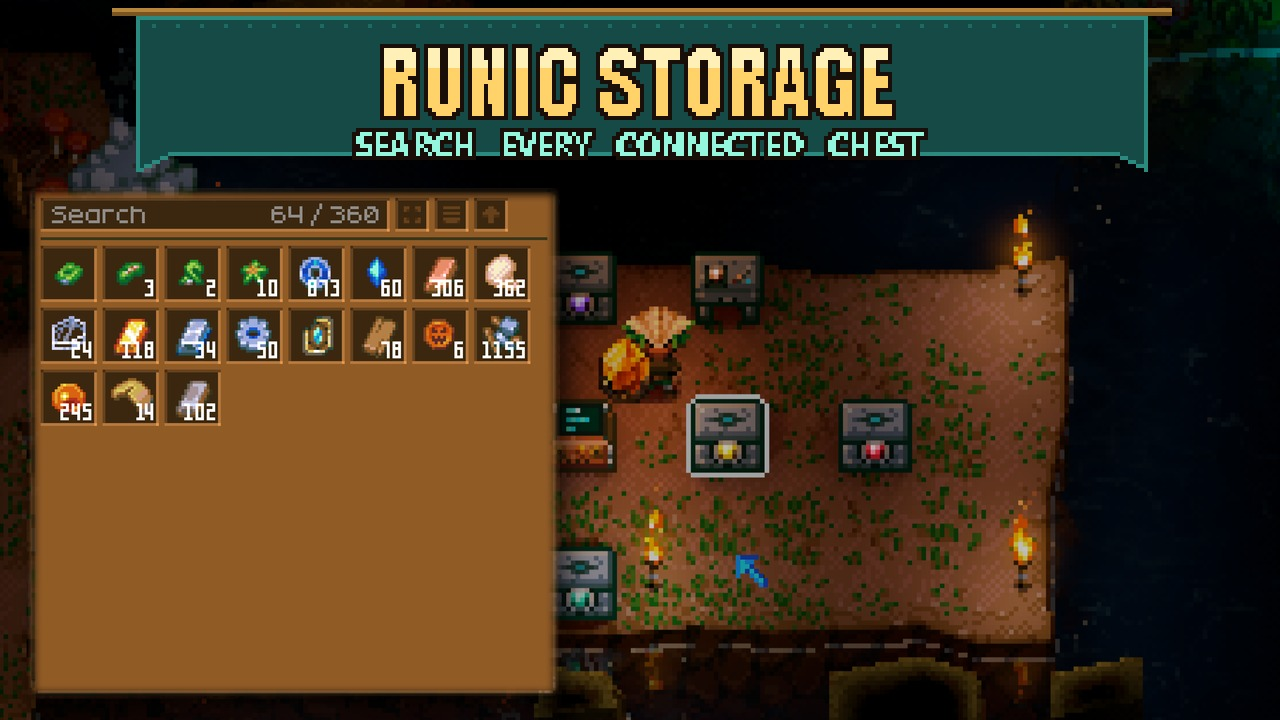
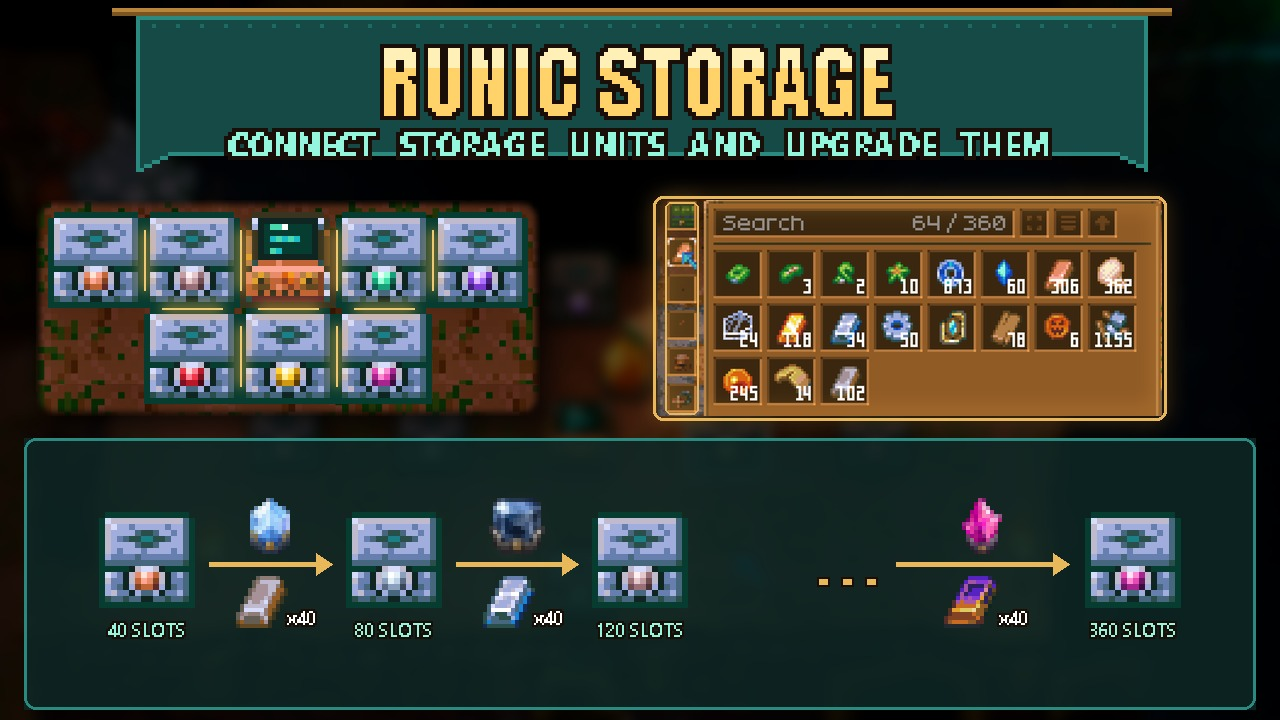
Runic Storage: new cover showing a connected network, category tabs and the upgrade path
The cover script (make_runicstorage_cover.py) replaces the old procedural cover: storage
units edge to edge around a terminal with soft seams, the storage panel with its category
tabs, and Copper 40 -> Relucite 360 with each tier's gem and 40 bars. Gems and bars are
drawn on the game's 16 px icon grid; bar icons are read from the installed game at
render time and not stored in the repo.

diff --git a/release/art_direction/make_runicstorage_cover.py b/release/art_direction/make_runicstorage_cover.py
@@ -1,148 +1,207 @@
-"""Runic Storage Workshop cover built from the mod's own runtime sprites (no AI, no game assets).
+"""Runic Storage Workshop / mod.io cover (approved by Sid 2026-11-03).
 
     python release/art_direction/make_runicstorage_cover.py [out.png]
 
-Logical canvas 256x144 drawn at the game's pixel scale; objects are the shipped 16 px sprites
-(ConnectedStorage/Unity/Art) at 2x, scene and banner are original pixels. Nearest 4x -> 1024x576.
-Gem, screen and lantern light come from the sprites' emissive masks, blurred at output size.
+Top: title banner. Middle left: a terminal with storage units touching it, edges glowing where they
+connect. Middle right: the storage panel from Sid's screenshot. Bottom: the upgrade path
+(unit -> gem from 40 bars -> next unit) with slot counts. The network uses the mod's own sprites on a
+floor patch tiled from the base screenshot. Gems and bars are drawn on the game's 16 px icon grid.
+Bar icons are read from the installed game at render time and cached in ignored build/ (never committed).
 """
 from pathlib import Path
-import random
 import sys
-from PIL import Image, ImageDraw, ImageFilter, ImageFont, ImageChops
+from PIL import Image, ImageDraw, ImageEnhance, ImageFilter, ImageFont
 
-REPO = Path(__file__).resolve().parents[2]
+sys.path.insert(0, str(Path(__file__).parent))
+import make_screenshot_covers as sc
+
+REPO = sc.REPO
 ART = REPO / 'ConnectedStorage/Unity/Art'
-OUT = Path(sys.argv[1]) if len(sys.argv) > 1 else REPO / 'build/artwork-review/2026-10-28/runicstorage_cover.png'
-W, H, K, S = 256, 144, 4, 2  # logical size, output scale, sprite scale
-R = random.Random(2810)
-TIERS = ['Copper', 'Tin', 'Iron', 'Scarlet', 'Octarine', 'Galaxite', 'Solarite', 'Pandorium']
-
-base = Image.new('RGBA', (W, H), '#0d1018')
-glow = Image.new('RGBA', (W, H), (0, 0, 0, 0))
-d = ImageDraw.Draw(base)
-g = ImageDraw.Draw(glow)
-
-# Cave wall: irregular stone blocks, darker toward the top, with teal crystal veins.
-for y in range(0, 64, 6):
-    x = -R.randrange(0, 10)
-    while x < W:
-        w = R.randrange(9, 19)
-        shade = R.choice(['#1a1f2b', '#1e2432', '#222a39', '#192130'])
-        d.rectangle((x, y, x + w - 1, y + 5), fill=shade)
-        d.line((x, y, x + w - 2, y), fill='#2b3446')
-        d.line((x + w - 1, y + 1, x + w - 1, y + 5), fill='#10141d')
-        x += w
-for _ in range(7):
-    cx, cy = R.randrange(8, W - 8), R.randrange(8, 52)
-    for i in range(R.randrange(2, 4)):
-        px, py = cx + i * 2, cy - i * 2
-        d.line((px, py, px, py + 3), fill='#19bdc6')
-        d.point((px, py), fill='#94f7dd')
-        g.point((px, py + 1), fill=(25, 189, 198, 255))
-# Wall foot: shadowed ledge into the floor.
-d.rectangle((0, 62, W, 65), fill='#0a0d14')
-d.line((0, 62, W, 62), fill='#2b3446')
-
-# Floor: blue-grey stone tiles (16 px) with mortar, wear and a faint rune circle under the network.
-for ty in range(66, H, 16):
-    for tx in range(0, W + 16, 16):
-        off = 8 if (ty // 16) % 2 else 0
-        x0 = tx - off
-        d.rectangle((x0, ty, x0 + 15, ty + 15), fill=R.choice(['#3a4558', '#3e4a5e', '#36404f']))
-        d.line((x0, ty, x0 + 15, ty), fill='#4c5a70')
-        d.line((x0, ty, x0, ty + 15), fill='#262d3a')
-        for _ in range(3):
-            d.point((x0 + R.randrange(2, 14), ty + R.randrange(2, 14)), fill=R.choice(['#323b4a', '#46536a']))
-d.ellipse((30, 70, 190, 140), outline='#2a6e70')
-d.ellipse((34, 73, 186, 137), outline='#1d4d50')
-g.ellipse((30, 70, 190, 140), outline=(25, 140, 150, 140))
-
-# Wall lanterns with warm glow.
-for lx in (22, 232):
-    d.rectangle((lx - 2, 30, lx + 2, 37), fill='#3b2a18')
-    d.rectangle((lx - 1, 31, lx + 1, 35), fill='#ffcf6a')
-    d.point((lx, 32), fill='#fff4c8')
-    d.line((lx, 26, lx, 29), fill='#5a4024')
-    g.ellipse((lx - 18, 16, lx + 18, 52), fill=(255, 170, 60, 70))
-    g.ellipse((lx - 6, 27, lx + 6, 39), fill=(255, 200, 110, 200))
+W, H = sc.W, sc.H
+OUT = Path(sys.argv[1]) if len(sys.argv) > 1 else REPO / 'release/runicstorage_workshop.png'
+GOLD, GLOW, MINT = '#e8b85a', '#ffb347', '#94f7dd'
 
 
-def sprite(name):
-    im = Image.open(ART / (name + '.png')).convert('RGBA')
-    em = Image.open(ART / (name + '_emissive.png')).convert('RGBA')
-    return im.resize((im.width * S, im.height * S), Image.NEAREST), em.resize((em.width * S, em.height * S), Image.NEAREST)
+def sprite(name, scale):
+    im = Image.open(ART / f'{name}.png').convert('RGBA')
+    return im.resize((im.width * scale, im.height * scale), Image.NEAREST)
 
 
-def place(name, x, y):
-    im, em = sprite(name)
-    shadow = Image.new('RGBA', (im.width, 6), (0, 0, 0, 0))
-    ImageDraw.Draw(shadow).ellipse((2, 0, im.width - 3, 5), fill=(0, 0, 0, 110))
-    base.alpha_composite(shadow, (x, y + im.height - 4))
-    base.alpha_composite(im, (x, y))
-    glow.alpha_composite(em, (x, y))
-
-
-# Network: 8 units edge to edge (two rows of four), terminal docked on the right, workbench nearby.
-bx, by = 30, 72
-for i, tier in enumerate(TIERS):
-    place(tier + 'Chest', bx + (i % 4) * 32, by + (i // 4) * 32)
-place('Terminal', bx + 128, by + 16)
-place('Workbench', 206, 96)
-
-# Props: copper and tin bars waiting at the bench, moss along the wall foot, wall crystal clusters.
-for i, (dark, mid, light) in enumerate([('#824223', '#c16436', '#fca895'), ('#5a6c84', '#a1aedd', '#e2eef8'), ('#824223', '#c16436', '#fca895')]):
-    x, y = 202 + i * 9 - (i == 2) * 4, 132 - (i == 2) * 4
-    d.polygon([(x, y + 3), (x + 2, y), (x + 8, y), (x + 9, y + 3)], fill=mid)
-    d.line((x + 2, y, x + 7, y), fill=light)
-    d.line((x, y + 3, x + 9, y + 3), fill=dark)
-for x in range(0, W, 3):
-    if R.random() < .35:
-        d.point((x, 66), fill=R.choice(['#239029', '#5ca537']))
-        d.point((x + 1, 65), fill='#0f5630')
-for cx, cy in ((246, 58), (8, 56), (150, 60)):
-    for dx, h in ((-2, 4), (0, 7), (2, 5)):
-        d.line((cx + dx, cy - h, cx + dx, cy), fill='#4ad8ae')
-        d.point((cx + dx, cy - h), fill='#eafff8')
-        g.line((cx + dx, cy - h, cx + dx, cy), fill=(74, 216, 174, 200))
-
-# Banner: teal cloth on a brass rod, title in gold with a dark outline.
-bx0, bx1, by0, by1 = 38, 218, 5, 45
-d.rectangle((bx0 - 4, by0 - 2, bx1 + 4, by0), fill='#915b26')
-d.line((bx0 - 4, by0 - 2, bx1 + 4, by0 - 2), fill='#e2a12c')
-d.polygon([(bx0, by0 + 1), (bx1, by0 + 1), (bx1, by1), (bx1 - 10, by1 - 5), (128, by1), (bx0 + 10, by1 - 5), (bx0, by1)], fill='#0f4a48')
-d.polygon([(bx0 + 2, by0 + 2), (bx1 - 2, by0 + 2), (bx1 - 2, by1 - 3), (bx1 - 10, by1 - 7), (128, by1 - 2), (bx0 + 10, by1 - 7), (bx0 + 2, by1 - 3)], outline='#2a8a80')
-for x in range(bx0 + 4, bx1 - 3, 6):
-    d.point((x, by0 + 3), fill='#1d6a64')
-
-
-def text(s, size, y, fill, font='impact.ttf'):
-    f = ImageFont.truetype('C:/Windows/Fonts/' + font, size)
-    layer = Image.new('L', (W, H))
+def pixel_text(canvas, xy, s, size, fill, anchor='mm', scale=2):
+    """1-bit text drawn small and scaled up, matching the banner's pixel look."""
+    f = ImageFont.truetype('C:/Windows/Fonts/segoeuib.ttf', size)
+    tmp = ImageDraw.Draw(Image.new('L', (1, 1)))
+    w, h = int(tmp.textlength(s, font=f)) + 4, size + 6
+    layer = Image.new('L', (w, h))
     ld = ImageDraw.Draw(layer)
     ld.fontmode = '1'
-    w = ld.textlength(s, font=f)
-    ld.text(((W - w) / 2, y), s, font=f, fill=255)
-    outline = layer.filter(ImageFilter.MaxFilter(3))
-    base.paste('#1a0f08', (0, 0), outline)
-    base.paste(fill, (0, 0), layer)
-    return layer
+    ld.text((2, 1), s, font=f, fill=255)
+    layer = layer.resize((w * scale, h * scale), Image.NEAREST)
+    x, y = xy
+    if anchor == 'mm':
+        x, y = x - layer.width // 2, y - layer.height // 2
+    canvas.paste('#1a0f08', (x, y), layer.filter(ImageFilter.MaxFilter(5)))
+    canvas.paste(fill, (x, y), layer)
 
 
-title = text('RUNIC STORAGE', 22, 7, '#ffd36a')
-# Two-tone gold: the upper rows of the letters are lighter.
-band = Image.new('L', (W, H))
-band.paste(255, (0, 0, W, 17))
-base.paste('#fff0b8', (0, 0), ImageChops.multiply(title, band))
-text('CRAFT  \u2022  UPGRADE  \u2022  EXPAND', 9, 32, '#94f7dd', 'segoeuib.ttf')
+def glow_frames(canvas, rects, radius=10, width=3):
+    g = Image.new('L', (W, H), 0)
+    for r in rects:
+        ImageDraw.Draw(g).rounded_rectangle(r, radius + 2, outline=255, width=10)
+    g = g.filter(ImageFilter.GaussianBlur(10))
+    canvas = Image.composite(Image.new('RGB', (W, H), GLOW), canvas, g.point(lambda v: v // 3))
+    d = ImageDraw.Draw(canvas)
+    for r in rects:
+        d.rounded_rectangle(r, radius, outline=GOLD, width=width)
+    return canvas
 
-# Output: nearest 4x, then additive bloom from the emissive layer.
-out = base.resize((W * K, H * K), Image.NEAREST).convert('RGB')
-bloom = glow.resize((W * K, H * K), Image.NEAREST)
-soft = Image.new('RGB', out.size)
-soft.paste(bloom.convert('RGB'), (0, 0), bloom)
-soft = soft.filter(ImageFilter.GaussianBlur(10))
-out = ImageChops.add(out, soft.point(lambda v: int(v * .9)))
+
+def shadowed(canvas, img, x, y):
+    sh = Image.new('L', (W, H), 0)
+    ImageDraw.Draw(sh).rectangle((x + 8, y + 10, x + img.width + 8, y + img.height + 10), fill=170)
+    canvas.paste('#000000', (0, 0), sh.filter(ImageFilter.GaussianBlur(12)))
+    canvas.paste(img, (x, y), img if img.mode == 'RGBA' else None)
+
+
+BARS = REPO / 'build/artwork-review/bars'              # cache of lootsprite_<tier>Bar from the game
+GAME_BUNDLE = Path(r'C:/Program Files (x86)/Steam/steamapps/common/Core Keeper/CoreKeeper_Data/StreamingAssets/aa/StandaloneWindows64/defaultlocalgroup_assets_all.bundle')
+
+
+def bar_icon(tier):
+    path = BARS / f'{tier.lower()}bar.png'
+    if not path.exists():
+        import UnityPy
+        BARS.mkdir(parents=True, exist_ok=True)
+        for o in UnityPy.load(str(GAME_BUNDLE)).objects:
+            if o.type.name == 'Sprite' and o.peek_name() == f'lootsprite_{tier[0].lower()}{tier[1:]}Bar':
+                o.read().image.save(path)
+                break
+    return Image.open(path)
+P = 4                                                   # game pixel -> cover pixel in the strip
+
+
+def game_res(im, size=16):
+    """How the game draws an item icon: on its 16 px grid, hard alpha, then scaled up."""
+    im = im.convert('RGBA')
+    if im.width != size:
+        im = im.resize((size, size), Image.BOX)
+        im.putalpha(im.getchannel('A').point(lambda a: 255 if a >= 110 else 0))
+    return im.resize((size * P, size * P), Image.NEAREST)
+
+
+def upgrade_cost(canvas, x, cy, tier):
+    """Above the arrow: the tier's gem. Below: its bar with a 40 stack count, like an inventory slot."""
+    gem = game_res(Image.open(ART / f'{tier}Gem.png'))
+    canvas.paste(gem, (x - gem.width // 2, cy - gem.height - 6), gem)
+    bar = game_res(bar_icon(tier))
+    bx, by = x - bar.width // 2 - 10, cy + 4
+    canvas.paste(bar, (bx, by), bar)
+    pixel_text(canvas, (bx + bar.width + 10, by + bar.height - 14), 'x40', 9, '#ffffff')
+
+
+# Background: the base screenshot, blurred and dark so the foreground reads.
+bg = sc.crop('20.12.13.42', (260, 130, 1000, 546)).resize((W, H), Image.LANCZOS)
+canvas = ImageEnhance.Brightness(bg.filter(ImageFilter.GaussianBlur(6))).enhance(0.4)
+
+# --- Network (left): floor patch + terminal and units edge to edge.
+S = 6                     # 16 px sprites -> 96 px tiles
+T = 16 * S
+area = (36, 200, 36 + 5 * T + 24, 200 + 2 * T + 24)
+# Clean dirt-and-moss patch from the base shot (no objects), tiled at the sprites' scale.
+patch = sc.crop('20.12.13.42', (260, 130, 1000, 546)).crop((1340, 850, 1560, 960))
+patch = patch.resize((round(patch.width * T / 115), round(patch.height * T / 115)), Image.LANCZOS)
+floor = Image.new('RGB', (area[2] - area[0], area[3] - area[1]))
+for fy in range(0, floor.height, patch.height):
+    for fx in range(0, floor.width, patch.width):
+        floor.paste(patch.transpose(Image.FLIP_LEFT_RIGHT) if (fx // patch.width + fy // patch.height) % 2 else patch, (fx, fy))
+floor = ImageEnhance.Brightness(floor).enhance(0.95)
+fade = Image.new('L', floor.size, 0)
+ImageDraw.Draw(fade).rounded_rectangle((4, 4, floor.width - 5, floor.height - 5), 14, fill=255)
+sh = Image.new('L', (W, H), 0)
+ImageDraw.Draw(sh).rounded_rectangle((area[0] + 8, area[1] + 10, area[2] + 8, area[3] + 10), 14, fill=170)
+canvas.paste('#000000', (0, 0), sh.filter(ImageFilter.GaussianBlur(12)))
+canvas.paste(floor, area[:2], fade.filter(ImageFilter.GaussianBlur(3)))
+
+ox, oy = area[0] + 12, area[1] + 12
+layout = [  # (column, row, sprite) - an L of units around the terminal, all sharing edges
+    (0, 0, 'CopperChest'), (1, 0, 'IronChest'), (2, 0, 'Terminal'), (3, 0, 'OctarineChest'), (4, 0, 'GalaxiteChest'),
+    (1, 1, 'ScarletChest'), (2, 1, 'SolariteChest'), (3, 1, 'ReluciteChest'),
+]
+cells = {}
+for cx, cy, name in layout:
+    im = sprite(name, S)
+    x, y = ox + cx * T, oy + cy * T + (T - im.height)
+    canvas.paste(im, (x, y), im)
+    cells[(cx, cy)] = (x, oy + cy * T)
+
+# Gold seams on every shared edge: this is what "connected" means in the mod.
+seam = Image.new('L', (W, H), 0)
+sd = ImageDraw.Draw(seam)
+lines = []
+for (cx, cy), (x, y) in cells.items():
+    if (cx + 1, cy) in cells:
+        lines.append((x + T, y + 18, x + T, y + T - 18))
+    if (cx, cy + 1) in cells:
+        lines.append((x + 18, y + T, x + T - 18, y + T))
+for l in lines:
+    sd.line(l, fill=255, width=10)
+seam = seam.filter(ImageFilter.GaussianBlur(6))
+# Soft amber halo plus a thin warm line: visible, but quieter than the gems and screen.
+canvas = Image.composite(Image.new('RGB', (W, H), '#e8a840'), canvas, seam.point(lambda v: v * 3 // 5))
+d = ImageDraw.Draw(canvas)
+for l in lines:
+    d.line(l, fill='#f0c870', width=2)
+
+# --- Storage panel (right), with the category tabs on its left edge (first six of twelve).
+PX0, PY0, PX1 = 18, 148, 572          # preview coords of the crop: tab column + panel
+panel = sc.crop('20.05.30.46', (PX0, PY0, PX1, 632))
+panel = panel.crop((0, 0, panel.width, round(panel.height * 237 / 484)))  # rows with items only
+pbox = (area[2] + 30, area[1], W - 30, area[3])
+img, px, py, s = sc.fit(panel, pbox)
+shadowed(canvas, img, px, py)
+k = img.width / (PX1 - PX0)           # preview pixels -> canvas pixels
+tabs = (px + round((27 - PX0) * k), py + round(2 * k), px + round((63 - PX0) * k), py + img.height - 2)  # tab boxes span preview x 29-61
+canvas = glow_frames(canvas, [(px - 4, py - 4, px + img.width + 4, py + img.height + 4)])
+canvas = glow_frames(canvas, [tabs], radius=6, width=2)
+
+# --- Upgrade path (bottom strip).
+strip = (24, area[3] + 22, W - 24, H - 10)
+plate = Image.new('RGBA', (strip[2] - strip[0], strip[3] - strip[1]), (14, 40, 38, 215))
+ImageDraw.Draw(plate).rounded_rectangle((0, 0, plate.width - 1, plate.height - 1), 12, outline='#2a8a80', width=3)
+canvas.paste(plate, strip[:2], plate)
+
+steps = [('Copper', 40), ('Tin', 80), ('Iron', 120), (None, None), ('Relucite', 360)]
+n_nodes = len(steps)
+cy = (strip[1] + strip[3]) // 2 - 10
+slot_w = (strip[2] - strip[0]) / n_nodes
+U = 6
+for i, (tier, slots) in enumerate(steps):
+    cx = round(strip[0] + slot_w * (i + 0.5))
+    if tier is None:
+        pixel_text(canvas, (cx - 40, cy), '. . .', 14, GOLD, scale=3)
+        d = ImageDraw.Draw(canvas)
+        ax0, ax1 = cx + 10, round(strip[0] + slot_w * (i + 1.5)) - 64
+        d.line((ax0, cy, ax1 - 10, cy), fill=GOLD, width=5)
+        d.polygon([(ax1, cy), (ax1 - 16, cy - 11), (ax1 - 16, cy + 11)], fill=GOLD)
+        upgrade_cost(canvas, (ax0 + ax1) // 2, cy, 'Relucite')
+        continue
+    unit = sprite(tier + 'Chest', U)
+    canvas.paste(unit, (cx - unit.width // 2, cy - unit.height // 2 - 4), unit)
+    pixel_text(canvas, (cx, cy + unit.height // 2 + 18), f'{slots} SLOTS', 9, MINT)
+    if i + 1 < n_nodes:
+        # Arrow to the next node with the gem that does the upgrade and its bar cost.
+        nxt = steps[i + 1][0]
+        if nxt is None:
+            continue
+        ax0, ax1 = cx + unit.width // 2 + 14, round(strip[0] + slot_w * (i + 1.5)) - unit.width // 2 - 14
+        mid = (ax0 + ax1) // 2
+        d = ImageDraw.Draw(canvas)
+        d.line((ax0, cy, ax1 - 10, cy), fill=GOLD, width=5)
+        d.polygon([(ax1, cy), (ax1 - 16, cy - 11), (ax1 - 16, cy + 11)], fill=GOLD)
+        if True:
+            upgrade_cost(canvas, mid, cy, nxt)
+
+sc.banner(canvas, 'RUNIC STORAGE', 'CONNECT STORAGE UNITS AND UPGRADE THEM')
 OUT.parent.mkdir(parents=True, exist_ok=True)
-out.save(OUT, optimize=True)
-print(OUT, out.size, OUT.stat().st_size)
+canvas.save(OUT, optimize=True)
+print(OUT, OUT.stat().st_size)

diff --git a/release/workshop_publish.py b/release/workshop_publish.py
@@ -69,7 +69,7 @@ OVERHAUL = ("SidsOverhaul", "Sid's Overhaul", "overhaul_logo.png", "Overhaul")
 NOT_IN_OVERHAUL = {"SlotOrganizer"}
 # Cover disclosure per item; everything else keeps the AI-artwork note.
 COVER_NOTES = {
-    "ConnectedStorage": "Cover is made from in-game screenshots (storage network and browser); title banner added.",
+    "ConnectedStorage": "Cover combines in-game screenshots (storage panel, base floor), the mod's own unit and gem sprites and the game's bar icons; title banner and highlights added.",
     "SlotOrganizer": "Cover is an in-game screenshot of the Select World menu with the mod's buttons; title banner and highlight added.",
     "FiveLoadouts": "Cover is an in-game screenshot of the equipment panel; title banner and highlight added.",
     "LoadoutSharing": "Cover is an in-game screenshot of the equipment panel; title banner and highlight added.",
